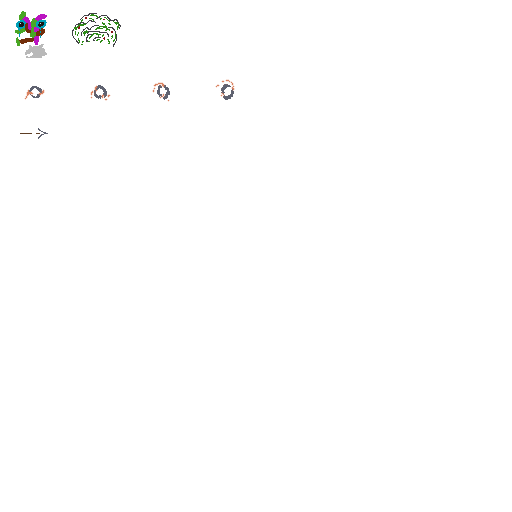
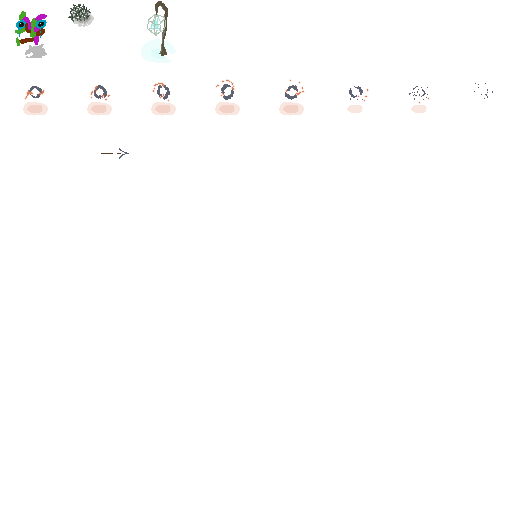
:sparkles: One-off animations

diff --git a/src/graphics/renderer.rs b/src/graphics/renderer.rs
@@ -1,6 +1,6 @@
 use std::collections::HashMap;
 
-use wgpu::{BindGroup, Device, Queue, Surface, SurfaceConfiguration};
+use wgpu::{Device, Queue, Surface, SurfaceConfiguration};
 use winit::dpi::PhysicalSize;
 
 use crate::graphics::model::Animation;
@@ -129,26 +129,43 @@ impl Renderer {
             "atlas".into(),
             8,
             192.0,
-            vec![Animation::new(vec![0], 1.0)],
+            vec![Animation::new(vec![0], 1.0, false)],
         );
         models.insert("player".into(), player_model);
 
-        let bush_model = Model::new("atlas".into(), 8, 192.0, vec![Animation::new(vec![1], 1.0)]);
+        let bush_model = Model::new(
+            "atlas".into(),
+            16,
+            96.0,
+            vec![Animation::new(vec![2], 1.0, false)],
+        );
         models.insert("bush".into(), bush_model);
+
+        let lamppost_model = Model::new(
+            "atlas".into(),
+            8,
+            192.0,
+            vec![Animation::new(vec![2], 1.0, false)],
+        );
+        models.insert("lamp post".into(), lamppost_model);
 
         let arrow_model = Model::new(
             "atlas".into(),
             8,
             192.0,
-            vec![Animation::new(vec![8, 9, 10, 11], 0.125)],
+            vec![Animation::new(
+                vec![8, 9, 10, 11, 12, 13, 14, 15, 63],
+                0.125,
+                true,
+            )],
         );
         models.insert("arrow".into(), arrow_model);
 
         let player_model = Model::new(
             "background".into(),
             1,
-            2400.0,
-            vec![Animation::new(vec![0], 1.0)],
+            4800.0,
+            vec![Animation::new(vec![0], 1.0, false)],
         );
         models.insert("background".into(), player_model);
 
@@ -181,6 +198,13 @@ impl Renderer {
             self.config.width = new_size.width;
             self.config.height = new_size.height;
             self.surface.configure(&self.device, &self.config);
+            self.default_uniforms.update_uniform(
+                |x| {
+                    x.x_scale = 1.0 / (new_size.width as f32);
+                    x.y_scale = 1.0 / (new_size.height as f32)
+                },
+                &self.queue,
+            )
         }
     }
 
@@ -202,9 +226,9 @@ impl Renderer {
 
         let mut draw_packages = draw_state.render(
             &self.device,
-            &self.queue,
             self.default_uniforms.uniform_struct(),
             &self.models,
+            self.size,
         );
 
         let mut render_pass = encoder.begin_render_pass(&wgpu::RenderPassDescriptor {

diff --git a/src/logic/logic.rs b/src/logic/logic.rs
@@ -24,10 +24,7 @@ pub fn setup_world() -> (World, Entity) {
     let mut world = World::default();
 
     let player = world.push((
-        Position {
-            x: 445.0 * 3.0,
-            y: 407.0 * 3.0,
-        },
+        Position { x: 0.0, y: 0.0 },
         Velocity { dx: 0.0, dy: 0.0 },
         Asset {
             name: "player".into(),
@@ -55,6 +52,22 @@ pub fn setup_world() -> (World, Entity) {
             Position { x: 100.0, y: 100.0 },
             Asset {
                 name: "bush".into(),
+                animation: 0,
+                animation_start_time: 0.0,
+            },
+            Friction {},
+        ),
+    );
+
+    world.push(
+        // A bush
+        (
+            Position {
+                x: 480.0,
+                y: -540.0,
+            },
+            Asset {
+                name: "lamp post".into(),
                 animation: 0,
                 animation_start_time: 0.0,
             },
@@ -132,8 +145,13 @@ pub fn start_logic_thread(rx: WindowToLogicReceiver, tx: LogicToWindowSender) ->
 
         let first_time = SystemTime::now();
 
+        let mut start_time = SystemTime::now();
+
         loop {
-            let start_time = SystemTime::now();
+            resources.insert(Time {
+                elapsed_seconds: start_time.elapsed().unwrap().as_secs_f32(),
+            });
+            start_time = SystemTime::now();
 
             evh.handle_inputs(&event_receiver);
             let events = evh.tick_events();
@@ -233,8 +251,8 @@ pub fn start_logic_thread(rx: WindowToLogicReceiver, tx: LogicToWindowSender) ->
             let _ = graphics_sender.send(DrawState::new(
                 draw_positions,
                 [
-                    rng.gen_range(-1.0..1.0) * extra_info.shake - position.x + 416.0,
-                    rng.gen_range(-1.0..1.0) * extra_info.shake - position.y + 290.0,
+                    rng.gen_range(-1.0..1.0) * extra_info.shake - position.x,
+                    rng.gen_range(-1.0..1.0) * extra_info.shake - position.y,
                 ],
                 first_time.elapsed().unwrap().as_secs_f32(),
             ));

diff --git a/src/graphics/draw_state.rs b/src/graphics/draw_state.rs
@@ -1,6 +1,7 @@
 use std::collections::HashMap;
 
-use wgpu::{Device, Queue};
+use wgpu::Device;
+use winit::dpi::PhysicalSize;
 
 use crate::logic::{Asset, Position};
 
@@ -27,6 +28,8 @@ pub struct DrawState {
 
 impl DrawState {
     pub fn new(entities: Vec<(Asset, Position)>, camera_offset: [f32; 2], time: f32) -> Self {
+        let mut entities = entities;
+        entities.sort_by(|x, y| y.1.y.partial_cmp(&x.1.y).unwrap());
         Self {
             entities,
             camera_offset,
@@ -37,9 +40,9 @@ impl DrawState {
     pub fn render(
         &self,
         device: &Device,
-        queue: &Queue,
         uniforms: &DefaultUniforms,
         models: &HashMap<String, Model>,
+        screen_size: PhysicalSize<u32>,
     ) -> Vec<DrawPackage> {
         let background_vertex_array = {
             let vertices: Vec<Vertex> = self
@@ -112,7 +115,10 @@ impl DrawState {
             DrawPackage {
                 vertex_array: background_vertex_array,
                 uniforms: DefaultUniforms {
-                    camera_offset: self.camera_offset,
+                    camera_offset: [
+                        self.camera_offset[0] + (screen_size.width as f32) / 2.0,
+                        self.camera_offset[1] + (screen_size.height as f32) / 2.0,
+                    ],
                     ..*uniforms
                 },
                 texture: TextureIdentifier::new("background".into()),
@@ -120,7 +126,10 @@ impl DrawState {
             DrawPackage {
                 vertex_array: atlas_vertex_array,
                 uniforms: DefaultUniforms {
-                    camera_offset: self.camera_offset,
+                    camera_offset: [
+                        self.camera_offset[0] + (screen_size.width as f32) / 2.0,
+                        self.camera_offset[1] + (screen_size.height as f32) / 2.0,
+                    ],
                     ..*uniforms
                 },
                 texture: TextureIdentifier::new("atlas".into()),

diff --git a/src/graphics/model.rs b/src/graphics/model.rs
@@ -17,6 +17,7 @@ pub struct Model {
 pub struct Animation {
     indices: Vec<usize>,
     time_per_frame: f32,
+    one_off: bool,
 }
 
 impl Model {
@@ -57,7 +58,7 @@ impl Model {
         animation_time_elapsed: f32,
     ) -> (f32, f32, f32, f32) {
         let animation = self.animation(animation_index);
-        let index = animation.index((animation_time_elapsed / animation.time_per_frame()) as usize % animation.steps());
+        let index = animation.index((animation_time_elapsed / animation.time_per_frame()) as usize);
         let uv_mod = 1.0 / (self.indices_on_axis() as f32);
 
         let u_index = (index % self.indices_on_axis()) as f32;
@@ -76,7 +77,7 @@ impl Model {
         center_position: Position,
         animation_index: usize,
         animation_time_elapsed: f32,
-    ) -> [Vertex;4] {
+    ) -> [Vertex; 4] {
         let (min_u, min_v, max_u, max_v) = self.uv_indices(animation_index, animation_time_elapsed);
         [
             Vertex {
@@ -116,10 +117,11 @@ impl Model {
 }
 
 impl Animation {
-    pub fn new(indices: Vec<usize>, time_per_frame: f32) -> Self {
+    pub fn new(indices: Vec<usize>, time_per_frame: f32, one_off: bool) -> Self {
         Self {
             indices,
             time_per_frame,
+            one_off,
         }
     }
 
@@ -128,7 +130,11 @@ impl Animation {
     }
 
     pub fn index(&self, index: usize) -> usize {
-        self.indices[index]
+        self.indices[if self.one_off {
+            std::cmp::min(index, self.steps() - 1)
+        } else {
+            index % self.steps()
+        }]
     }
 
     pub fn time_per_frame(&self) -> f32 {

diff --git a/src/graphics/texture.rs b/src/graphics/texture.rs
@@ -1,5 +1,3 @@
-use std::collections::HashMap;
-
 use wgpu::{BindGroup, BindGroupLayout, Device, Queue, Sampler, TextureView};
 
 #[derive(Clone, Debug, PartialEq, Eq, PartialOrd, Ord, Hash)]
@@ -16,10 +14,6 @@ impl TextureIdentifier {
 pub struct Texture {
     view: TextureView,
     sampler: Sampler,
-}
-
-pub struct TextureManager {
-    textures: HashMap<TextureIdentifier, Texture>,
 }
 
 impl Texture {
@@ -41,7 +35,7 @@ impl Texture {
             mip_level_count: 1,
             sample_count: 1,
             dimension: wgpu::TextureDimension::D2,
-            format: wgpu::TextureFormat::Rgba8UnormSrgb,
+            format: wgpu::TextureFormat::Rgba8UnormSrgb, // TODO: FIX DISCOLORED TEXTURES
             usage: wgpu::TextureUsages::TEXTURE_BINDING | wgpu::TextureUsages::COPY_DST,
             label: Some("texture"),
         });
